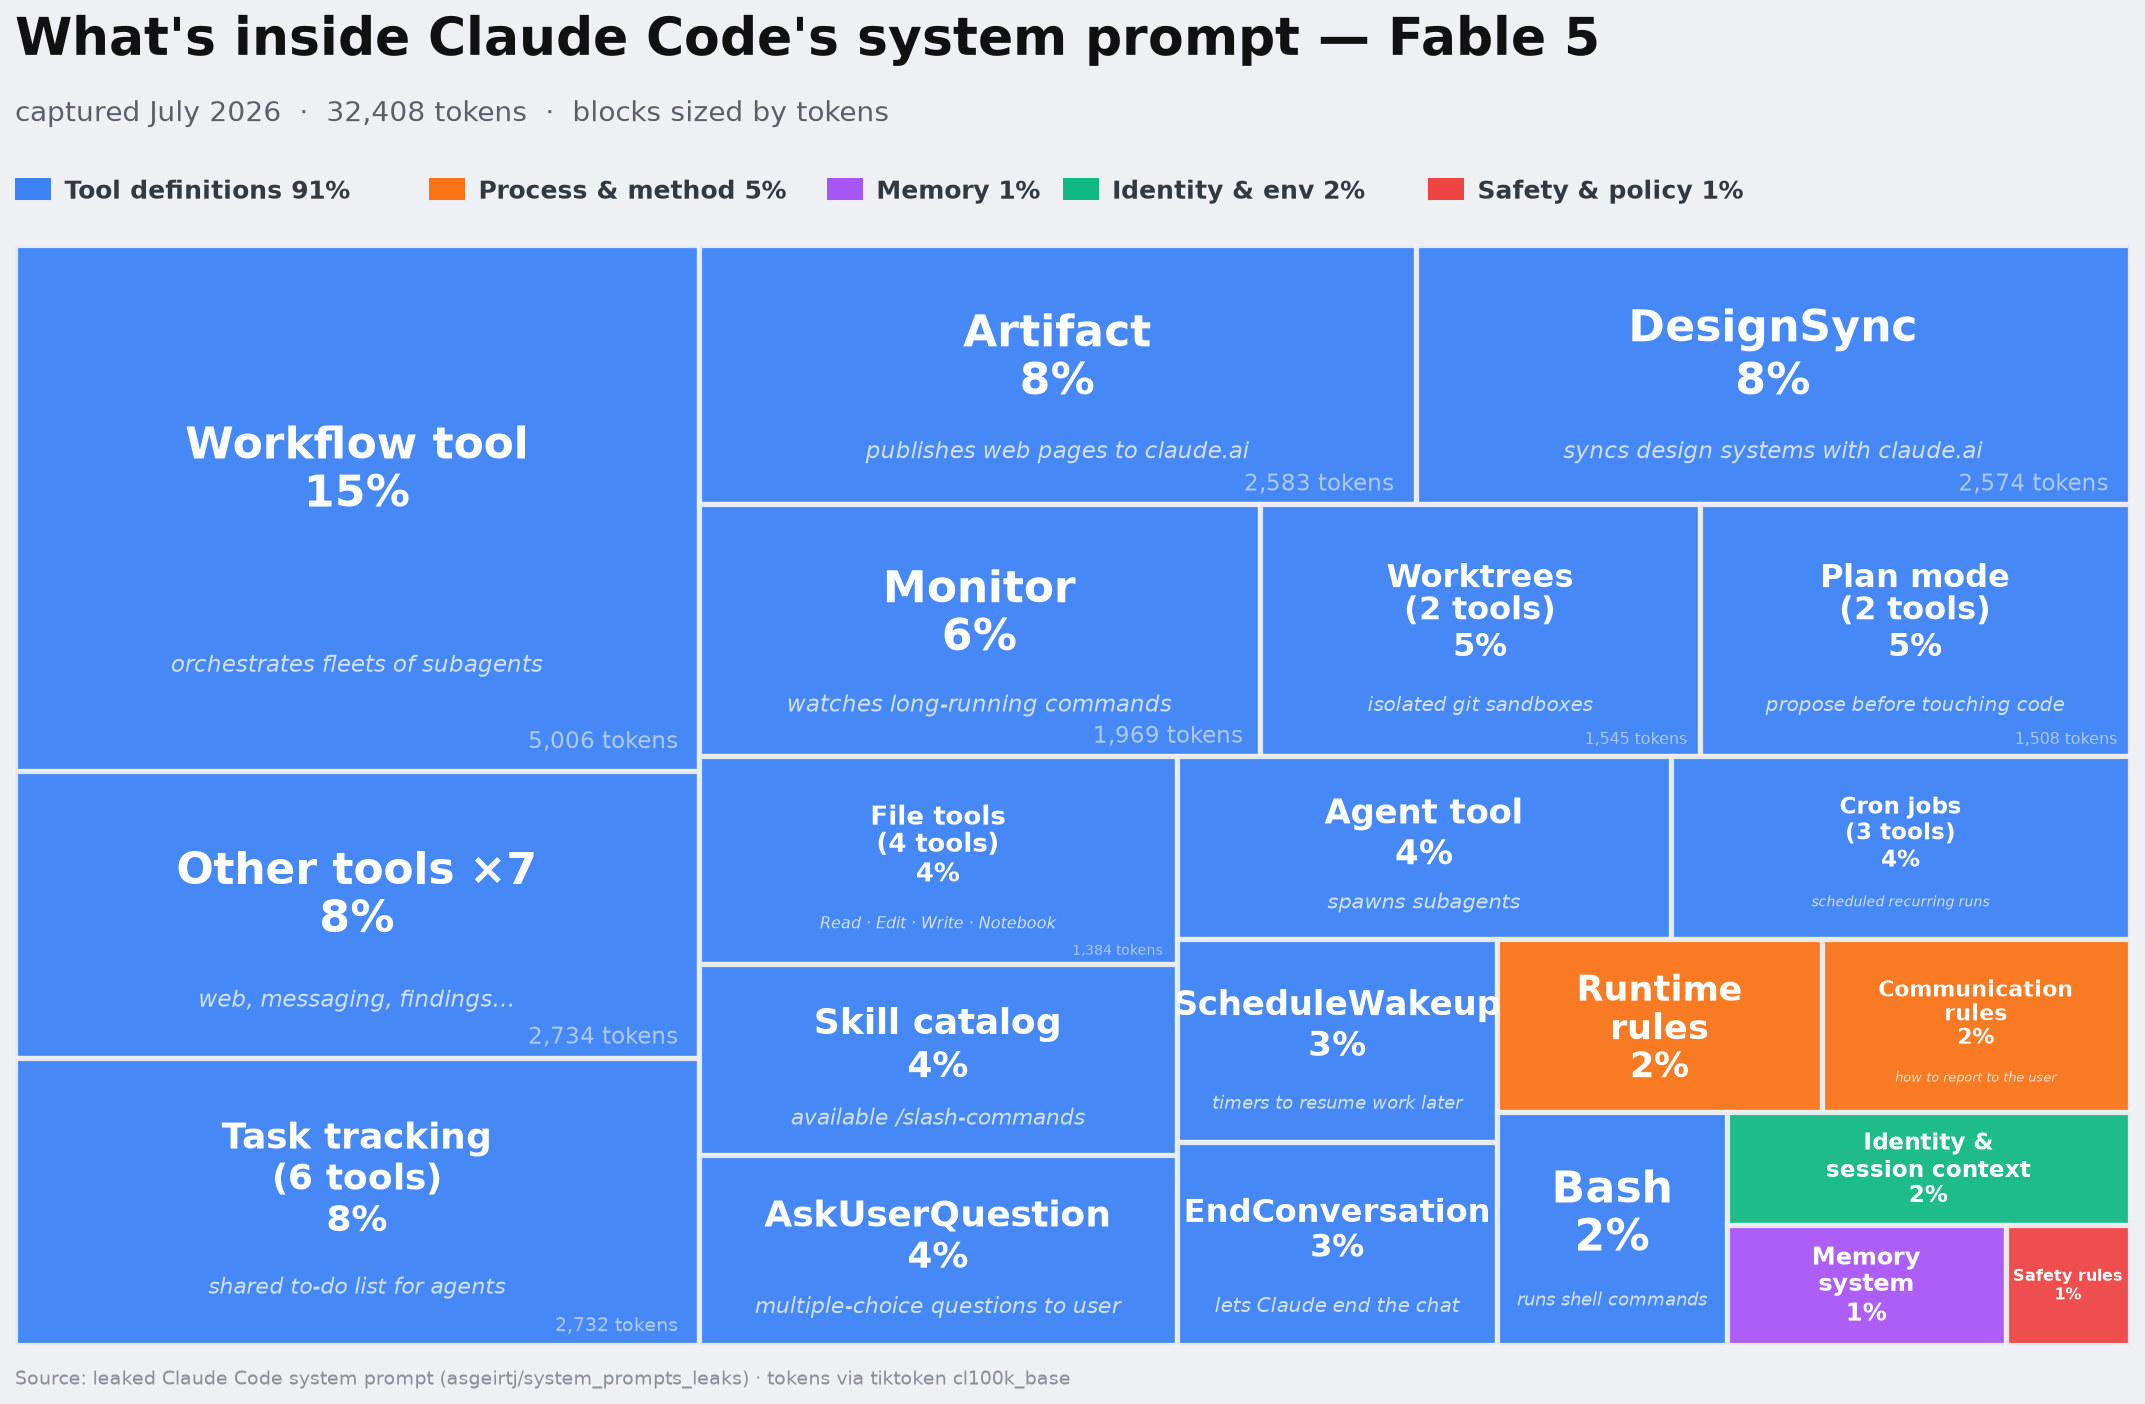
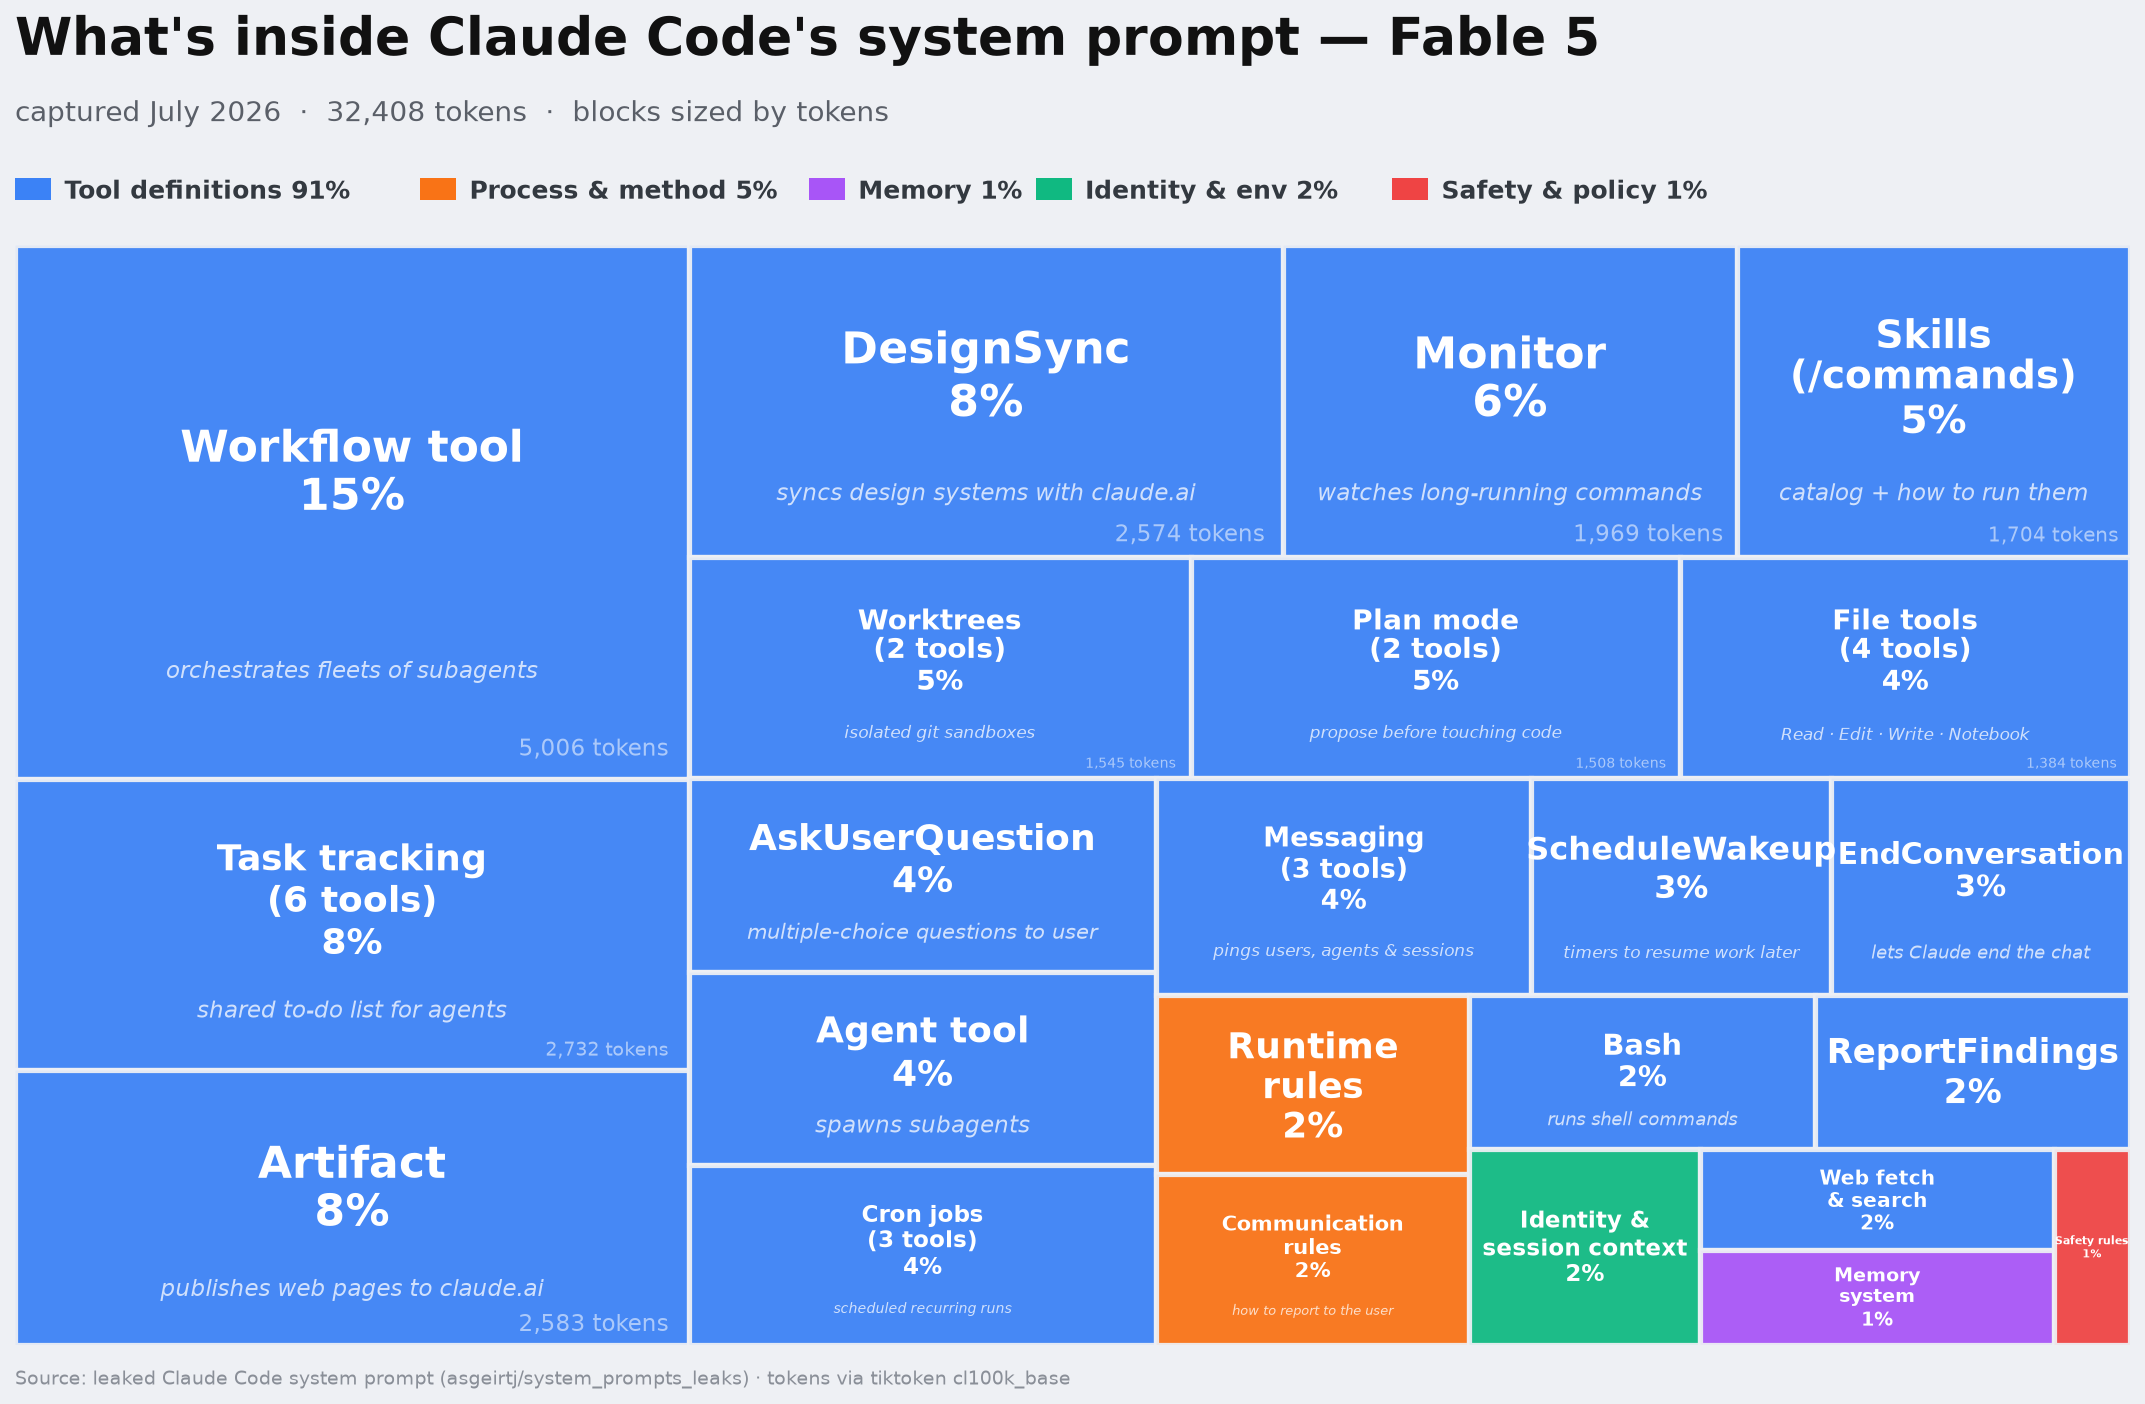
Split Other-tools junk drawer, add alt-palette variant + cache card
- "Other tools ×7" is gone: Messaging (3 tools), Web fetch & search,
  ReportFindings stand alone; Skill merges with the skill catalog into
  one "Skills (/commands)" cell.
- New alt-color Fable 5 treemap colors tools by functional family
  (Orchestration / Coding & web / claude.ai / User I/O) instead of one
  blue block — surfaces that 47% of the prompt is agent orchestration.
- New cache-billing quote card for the thread closer.

diff --git a/viz_claude_code.py b/viz_claude_code.py
@@ -55,14 +55,14 @@ GROUPS = {
     'Bash':              ('Bash', 'tools', 'runs shell commands'),
     'Agent':             ('Agent tool', 'tools', 'spawns subagents'),
     '__agents_roster__': ('Agent tool', 'tools', ''),
-    'PushNotification':  ('Other tools ×7', 'tools', 'web, messaging, findings…'),
-    'Skill':             ('Other tools ×7', 'tools', ''),
-    'RemoteTrigger':     ('Other tools ×7', 'tools', ''),
-    'SendMessage':       ('Other tools ×7', 'tools', ''),
-    'WebFetch':          ('Other tools ×7', 'tools', ''),
-    'WebSearch':         ('Other tools ×7', 'tools', ''),
-    'ReportFindings':    ('Other tools ×7', 'tools', ''),
-    '__skills_catalog__':('Skill catalog', 'tools', 'available /slash-commands'),
+    'PushNotification':  ('Messaging\n(3 tools)', 'tools', 'pings users, agents & sessions'),
+    'RemoteTrigger':     ('Messaging\n(3 tools)', 'tools', ''),
+    'SendMessage':       ('Messaging\n(3 tools)', 'tools', ''),
+    'WebFetch':          ('Web fetch\n& search', 'tools', ''),
+    'WebSearch':         ('Web fetch\n& search', 'tools', ''),
+    'ReportFindings':    ('ReportFindings', 'tools', 'posts code-review results'),
+    'Skill':             ('Skills\n(/commands)', 'tools', 'catalog + how to run them'),
+    '__skills_catalog__':('Skills\n(/commands)', 'tools', ''),
     'Communicating with the user': ('Communication\nrules', 'process', 'how to report to the user'),
     'Delivering work':   ('Delivering work\n& corrections', 'process', 'scope, ambiguity, self-correction'),
     'Corrections':       ('Delivering work\n& corrections', 'process', ''),
@@ -160,7 +160,8 @@ def parse(path):
     return segs, total
 
 
-def render(slug, model_name, segs, total, captured):
+def render(slug, model_name, segs, total, captured, cats=None):
+    cats = cats or CATS
     cat_tot = defaultdict(int)
     for _, t, c, _ in segs:
         cat_tot[c] += t
@@ -171,7 +172,7 @@ def render(slug, model_name, segs, total, captured):
     ax.set_facecolor('#eef0f4')
 
     sizes = [t for _, t, _, _ in segs]
-    colors = [CATS[c][1] for _, _, c, _ in segs]
+    colors = [cats[c][1] for _, _, c, _ in segs]
     rects = squarify.squarify(squarify.normalize_sizes(sizes, 100, 100), 0, 0, 100, 100)
 
     fig_w_in, fig_h_in = 15 * 0.94, 9.4 * 0.78
@@ -226,13 +227,16 @@ def render(slug, model_name, segs, total, captured):
              fontsize=13.5, color='#5a5f68')
 
     lx = 0.03
-    for c, (lbl, col) in CATS.items():
+    compact = len(cats) > 5
+    leg_fs = 10.5 if compact else 12
+    leg_adv = 0.0063 if compact else 0.0072
+    for c, (lbl, col) in cats.items():
         pct = cat_tot[c] / total * 100
         fig.patches.append(mpatches.Rectangle((lx, 0.852), 0.016, 0.016,
                            transform=fig.transFigure, facecolor=col, edgecolor='none'))
         t = f"{lbl} {pct:.0f}%"
-        fig.text(lx + 0.022, 0.853, t, fontsize=12, color='#333940', fontweight='bold')
-        lx += 0.022 + 0.0072 * len(t) + 0.018
+        fig.text(lx + 0.022, 0.853, t, fontsize=leg_fs, color='#333940', fontweight='bold')
+        lx += 0.022 + leg_adv * len(t) + 0.014
 
     fig.text(0.03, 0.012, "Source: leaked Claude Code system prompt (asgeirtj/system_prompts_leaks) · tokens via tiktoken cl100k_base",
              fontsize=9, color='#8a8f98')
@@ -254,3 +258,29 @@ for slug, model_name, path, captured in MODELS:
         print(f"  {lbl:<18} {cat_tot[c]:>6,}  {cat_tot[c]/total*100:5.1f}%")
     out = render(slug, model_name, segs, total, captured)
     print(f"Saved → {out}")
+
+
+# ── Alt-color variant: split "tools" into functional families (Fable 5 only) ──
+ALT_CATS = {
+    'orch':    ('Orchestration', '#1d4ed8'),
+    'code':    ('Coding & web',  '#3b82f6'),
+    'ai':      ('claude.ai',     '#0891b2'),
+    'user':    ('User I/O',      '#0d9488'),
+    'process': ('Process',       '#f97316'),
+    'memory':  ('Memory',        '#a855f7'),
+    'identity':('Identity',      '#10b981'),
+    'safety':  ('Safety',        '#ef4444'),
+}
+FAMILY = {
+    'Workflow tool': 'orch', 'Agent tool': 'orch', 'Task tracking\n(6 tools)': 'orch',
+    'Monitor': 'orch', 'ScheduleWakeup': 'orch', 'Cron jobs\n(3 tools)': 'orch',
+    'Messaging\n(3 tools)': 'orch', 'EndConversation': 'orch',
+    'Bash': 'code', 'File tools\n(4 tools)': 'code', 'Worktrees\n(2 tools)': 'code',
+    'Plan mode\n(2 tools)': 'code', 'Web fetch\n& search': 'code',
+    'Artifact': 'ai', 'DesignSync': 'ai',
+    'AskUserQuestion': 'user', 'ReportFindings': 'user', 'Skills\n(/commands)': 'user',
+}
+segs, total = parse('prompts/claude-code-fable-5.txt')
+alt_segs = [(lbl, t, FAMILY.get(lbl, c), sub) for lbl, t, c, sub in segs]
+out = render('fable-5-alt', 'Fable 5', alt_segs, total, 'July 2026', cats=ALT_CATS)
+print(f"Saved → {out}")

diff --git a/viz_quote_cards.py b/viz_quote_cards.py
@@ -72,3 +72,32 @@ fig.text(0.04, 0.025, "Source: asgeirtj/system_prompts_leaks · quote verbatim",
 plt.savefig('examples/claude-code-mythos-card.png', dpi=150, facecolor=BG, bbox_inches='tight')
 plt.close(fig)
 print("Saved → examples/claude-code-mythos-card.png")
+
+
+# ── Card C: cache-billing awareness ───────────────────────────────────
+fig = plt.figure(figsize=(15, 7.2), facecolor=BG)
+
+fig.text(0.04, 0.90, "From the section teaching Claude to schedule its own wake-ups:", fontsize=15, color=GRAY)
+
+lines = [
+    ('\u201cThis session\u2019s requests use a 1-hour Anthropic', DARK),
+    ('prompt-cache TTL \u2026 scheduling extra wakeups just to', DARK),
+    ('keep the cache warm is pure waste \u2014 never do that.', DARK),
+    ('If the session enters usage overage, later', RED),
+    ('requests drop to the 5-minute TTL.\u201d', RED),
+]
+y = 0.76
+for txt, col in lines:
+    fig.text(0.04, y, txt, fontsize=23, color=col, fontweight='bold', va='top', linespacing=1.3)
+    y -= 0.107
+
+fig.text(0.04, 0.16, "The model is told your billing state. It schedules its own sleep around your invoice.",
+         fontsize=14, color=GRAY, style='italic')
+fig.text(0.04, 0.075, "\u2014 Claude Code system prompt (Fable 5), ScheduleWakeup tool, captured July 2026",
+         fontsize=13, color=GRAY, style='italic')
+fig.text(0.04, 0.025, "Source: asgeirtj/system_prompts_leaks \u00b7 quote verbatim",
+         fontsize=9.5, color=LIGHT)
+
+plt.savefig('examples/claude-code-cache-card.png', dpi=150, facecolor=BG, bbox_inches='tight')
+plt.close(fig)
+print("Saved → examples/claude-code-cache-card.png")
